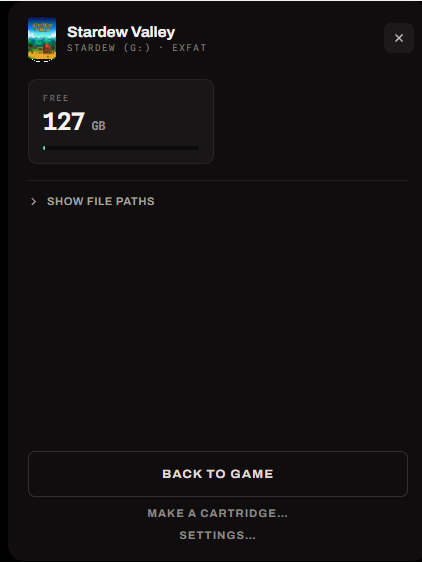
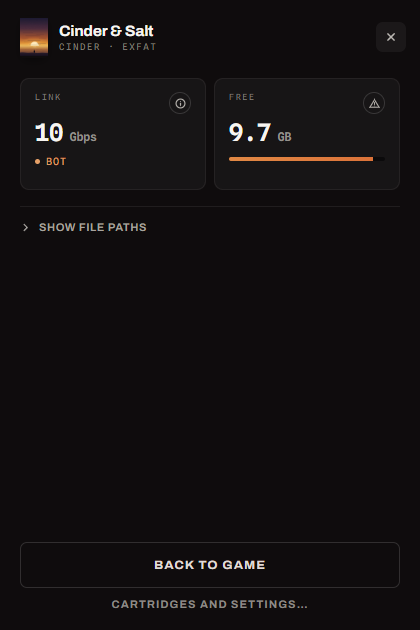
Retake the two screenshots that went stale, and unbreak the manual's images
The details sheet lost its two-link footer when "Make a cartridge…" and
"Settings…" became one link, so both sheet screenshots showed a window that no
longer exists. Retaken from the preview at the real 420x630, which is why they
show the sample cartridge rather than the Stardew and Tomb Raider ones — the UI
is what these two figures are for. The rest were already right: they predate
the skin button and postdate nothing else.

Every image in the manual was broken. The paths were written when the file was
`README.md` at the root, and moving it to `docs/` left them pointing at
`docs/docs/`. Sixteen of them.

The two `Screenshot 2026-09-03 1727*.png` files were referenced by nothing.

Claude-Session: https://claude.ai/code/session_01TPfCFHzL1wwBophSrXuecN

diff --git a/docs/MANUAL.md b/docs/MANUAL.md
@@ -66,7 +66,7 @@ A shelf of cartridges is a library you can hold. Each one carries a game, its
 cover art and nothing else, so what is on it is obvious from across the room and
 from the drive's own name in Explorer.
 
-<img width="480" alt="A cartridge is pushed into its enclosure; the launcher appears on the screen behind it showing Stardew Valley's cover art, and then reports Ejecting" src="docs/cartridge-demo.gif" />
+<img width="480" alt="A cartridge is pushed into its enclosure; the launcher appears on the screen behind it showing Stardew Valley's cover art, and then reports Ejecting" src="cartridge-demo.gif" />
 
 That is the whole loop: plug it in, the launcher is there, press Play, press
 Eject, take it out.
@@ -87,8 +87,8 @@ The window is 420 × 560 — the 3:4 of a cover — and the artwork fills it. Th
 window is the slot and the cover is the cartridge seated in it: press Eject and
 the whole face rides out, leaving the empty slot behind.
 
-<img width="420" alt="The launcher showing Stardew Valley: cover art filling the window, the title over it, a line reading On the cartridge, and a wide Play button beside an eject icon" src="docs/launcher.png" />
-<img width="420" alt="The details sheet for a Stardew Valley cartridge: the free space as one large figure with a fill bar, above a folded Show file paths disclosure" src="docs/launcher-details.png" />
+<img width="420" alt="The launcher showing Stardew Valley: cover art filling the window, the title over it, a line reading On the cartridge, and a wide Play button beside an eject icon" src="launcher.png" />
+<img width="420" alt="The details sheet for a single-game cartridge: the link speed and the free space as two large figures side by side, above a folded Show file paths disclosure" src="launcher-details.png" />
 
 The accent colour is sampled from the cover art at load, so the Play button
 belongs to whatever game is in the dock. At rest almost nothing else is on
@@ -102,7 +102,7 @@ launcher grows a rail: **picking a game is what Play acts on**, and the artwork
 behind it cross-fades to whichever one is selected — no menu, no submenu,
 nothing to learn.
 
-<img width="420" alt="The launcher showing a ten-game Tomb Raider cartridge: the selected game's art filling the window, the collection name above a rail of games, and the selected game's title over one shared Play button" src="docs/launcher-bundle.png" />
+<img width="420" alt="The launcher showing a ten-game Tomb Raider cartridge: the selected game's art filling the window, the collection name above a rail of games, and the selected game's title over one shared Play button" src="launcher-bundle.png" />
 
 Each row carries the game's own art and size, and the first nine answer to the
 number keys — pressing one selects that game and starts it, so the window shows
@@ -217,7 +217,7 @@ aspects, so one set works under all of them. A skin choosing a shape is not a
 skin asking for different art.
 
 Adding a skin is a stylesheet in `tauri-ui/app/skins/` and a line in
-`core/src/skins.rs`. **[docs/SKINNING.md](docs/SKINNING.md)** is the reference:
+`core/src/skins.rs`. **[docs/SKINNING.md](SKINNING.md)** is the reference:
 every element a skin can style, the three properties it sets, the states to
 handle, and the handful of things it must not do. The file is loaded *on top of* the stock one rather than
 instead of it, so a skin is only the difference — `retro.css` is about 150 lines
@@ -310,7 +310,7 @@ Run the installer menu and choose **Create a cartridge**, or start it directly:
 pc-gamepak --create
 ```
 
-<img width="760" alt="The create-cartridge wizard: one screen with Game, Media, Artwork and Written to as four groups down the left, each stating what is chosen with a Change button beside it, and a rail on the right previewing the launcher the cartridge will open" src="docs/wizard.png" />
+<img width="760" alt="The create-cartridge wizard: one screen with Game, Media, Artwork and Written to as four groups down the left, each stating what is chosen with a Change button beside it, and a rail on the right previewing the launcher the cartridge will open" src="wizard.png" />
 
 The wizard lists everything installed. **Playnite** is read first when present —
 one list covering Steam, GOG, Epic, Xbox, Ubisoft, itch and emulators — and
@@ -340,7 +340,7 @@ selection is always multiple, so ticking a second game is all it takes. The rail
 on the right titles itself **Cartridge** or **Multicartridge** to match. There is
 no mode to enter.
 
-<img width="760" alt="Choose the media: a dialog listing every removable drive with its free space, and a note against each one that already holds a cartridge" src="docs/wizard-media.png" />
+<img width="760" alt="Choose the media: a dialog listing every removable drive with its free space, and a note against each one that already holds a cartridge" src="wizard-media.png" />
 
 Media is the same dialog asking the same kind of question. Every removable drive
 is listed with the room on it, and one that already holds a cartridge says so
@@ -357,7 +357,7 @@ Tick a second game and the cartridge is a collection — nothing else to press.
 The rail counts them, and the bar under it puts one band per game so you can see
 which one is taking the room:
 
-<img width="760" alt="The wizard with three games chosen: the Game card naming the collection, a Name and order group with a drag-sortable play order, and the rail titled Multicartridge above a live preview of the launcher" src="docs/wizard-bundle.png" />
+<img width="760" alt="The wizard with three games chosen: the Game card naming the collection, a Name and order group with a drag-sortable play order, and the rail titled Multicartridge above a live preview of the launcher" src="wizard-bundle.png" />
 
 A collection is the one thing in a library with no artwork of its own, so a
 **Name and order** group appears on the same screen for the two things the wizard
@@ -385,7 +385,7 @@ whole thing again — which, with the games copied onto it, is hours.
 Select a drive that already holds a cartridge and **Edit the cartridge already
 on this drive** appears:
 
-<img width="760" alt="The edit dialog: the cartridge name, a Change artwork button, and the list of games with controls to rename, reorder and remove them" src="docs/wizard-edit.png" />
+<img width="760" alt="The edit dialog: the cartridge name, a Change artwork button, and the list of games with controls to rename, reorder and remove them" src="wizard-edit.png" />
 
 You can rename the cartridge, change its artwork, rename the individual games,
 reorder them — the order is the order of the launcher's rail — and take one off
@@ -430,7 +430,7 @@ plain.
 
 **The game itself**, by whichever route suits where it came from:
 
-<img width="760" alt="Adding a game by hand: the chosen folder, a title taken from the folder name, and the executables inside it ranked with the uninstaller and the runtime pushed to the bottom" src="docs/wizard-portable.png" />
+<img width="760" alt="Adding a game by hand: the chosen folder, a title taken from the folder name, and the executables inside it ranked with the uninstaller and the runtime pushed to the bottom" src="wizard-portable.png" />
 
 - *Steam games* go to `steamapps/` and the drive is registered in Steam's
   `libraryfolders.vdf`, so Steam plays **from the cartridge** rather than your
@@ -463,7 +463,7 @@ emulator entries, older GOG titles — and the launcher then shows a placeholder
 The wizard can look artwork up on [SteamGridDB](https://www.steamgriddb.com/)
 to fill those gaps.
 
-<img width="760" alt="The wizard's settings, grouped: a count of where the 87 games came from with a Rescan link, the SteamGridDB switch and its key field, and defaults for a new cartridge" src="docs/wizard-settings.png" />
+<img width="760" alt="The wizard's settings, grouped: a count of where the 87 games came from with a Rescan link, the SteamGridDB switch and its key field, and defaults for a new cartridge" src="wizard-settings.png" />
 
 **It is off by default**, and it is the only part of this project that talks to
 the network. Turn it on behind the gear in the wizard's title bar, where it also
@@ -477,7 +477,7 @@ artwork…** opens the desktop's own file dialog and copies whatever you point a
 
 ### Formatting erases the drive
 
-<img width="760" alt="Every option with formatting enabled: options grouped by what they touch, with the destructive one alone under its own heading" src="docs/wizard-format.png" />
+<img width="760" alt="Every option with formatting enabled: options grouped by what they touch, with the destructive one alone under its own heading" src="wizard-format.png" />
 
 Formatting is opt-in per cartridge and gated three ways: the target must be on
 the removable-drive allowlist the wizard re-derives itself, it must not be the
@@ -547,7 +547,7 @@ Neither of these gets better with a faster cartridge.
 Press `I` on the launcher and it reports three things about the drive in front
 of it:
 
-<img width="420" alt="The details sheet for a ten-game cartridge with the paths unfolded: free space, a games count, and the steam:// URI each game launches by" src="docs/launcher-health.png" />
+<img width="420" alt="The details sheet for a collection with the paths unfolded: link and free space, a games count, and the steam:// URI each game launches by" src="launcher-health.png" />
 
 - **Link** — 10 Gbps is what a Gen 2 enclosure should negotiate. 5 Gbps means a
   front-panel port, a hub, or a cable that is not rated for it; 480 Mbps means
@@ -717,7 +717,7 @@ plug-in cartridge, the drive would become the sacrificial part. In a USB
 enclosure, the NVMe drive is installed once and left alone, while the repeated
 insertions happen on the cheaper, easier-to-replace USB side instead.
 
-<img width="340" alt="A cartridge with its backplate removed: an M.2 2230 NVMe drive screwed into an aluminium enclosure, the USB-C plug moulded into the shell, and the plate and its single screw beside it" src="docs/hardware-cartridge.jpg" />
+<img width="340" alt="A cartridge with its backplate removed: an M.2 2230 NVMe drive screwed into an aluminium enclosure, the USB-C plug moulded into the shell, and the plate and its single screw beside it" src="hardware-cartridge.jpg" />
 
 That is the whole assembly, opened up: the 2230 drive screwed down inside the
 shell, the USB-C plug part of the enclosure rather than part of the drive, and a
@@ -1016,7 +1016,7 @@ tools/                      icon generation, DOM-id check
 docs/                       screenshots, PUBLISHING.md, STATUS.md
 ```
 
-[`docs/STATUS.md`](docs/STATUS.md) is the working inventory: what each module is
+[`docs/STATUS.md`](STATUS.md) is the working inventory: what each module is
 for, what is built, and what is missing.
 
 When a cartridge does not open the launcher, the logs are the first place to
@@ -1034,7 +1034,7 @@ Nothing is published yet. When it is, the shortlist is the AUR (which is where
 the Steam Deck and Arch audience is), WinGet and Scoop on Windows — the channels
 that can actually install the udev rule or the logon task this depends on.
 
-[`docs/PUBLISHING.md`](docs/PUBLISHING.md) has the reasoning, including why
+[`docs/PUBLISHING.md`](PUBLISHING.md) has the reasoning, including why
 Flatpak, Snap and Homebrew are not on that list yet and what would change it.
 
 </details>
